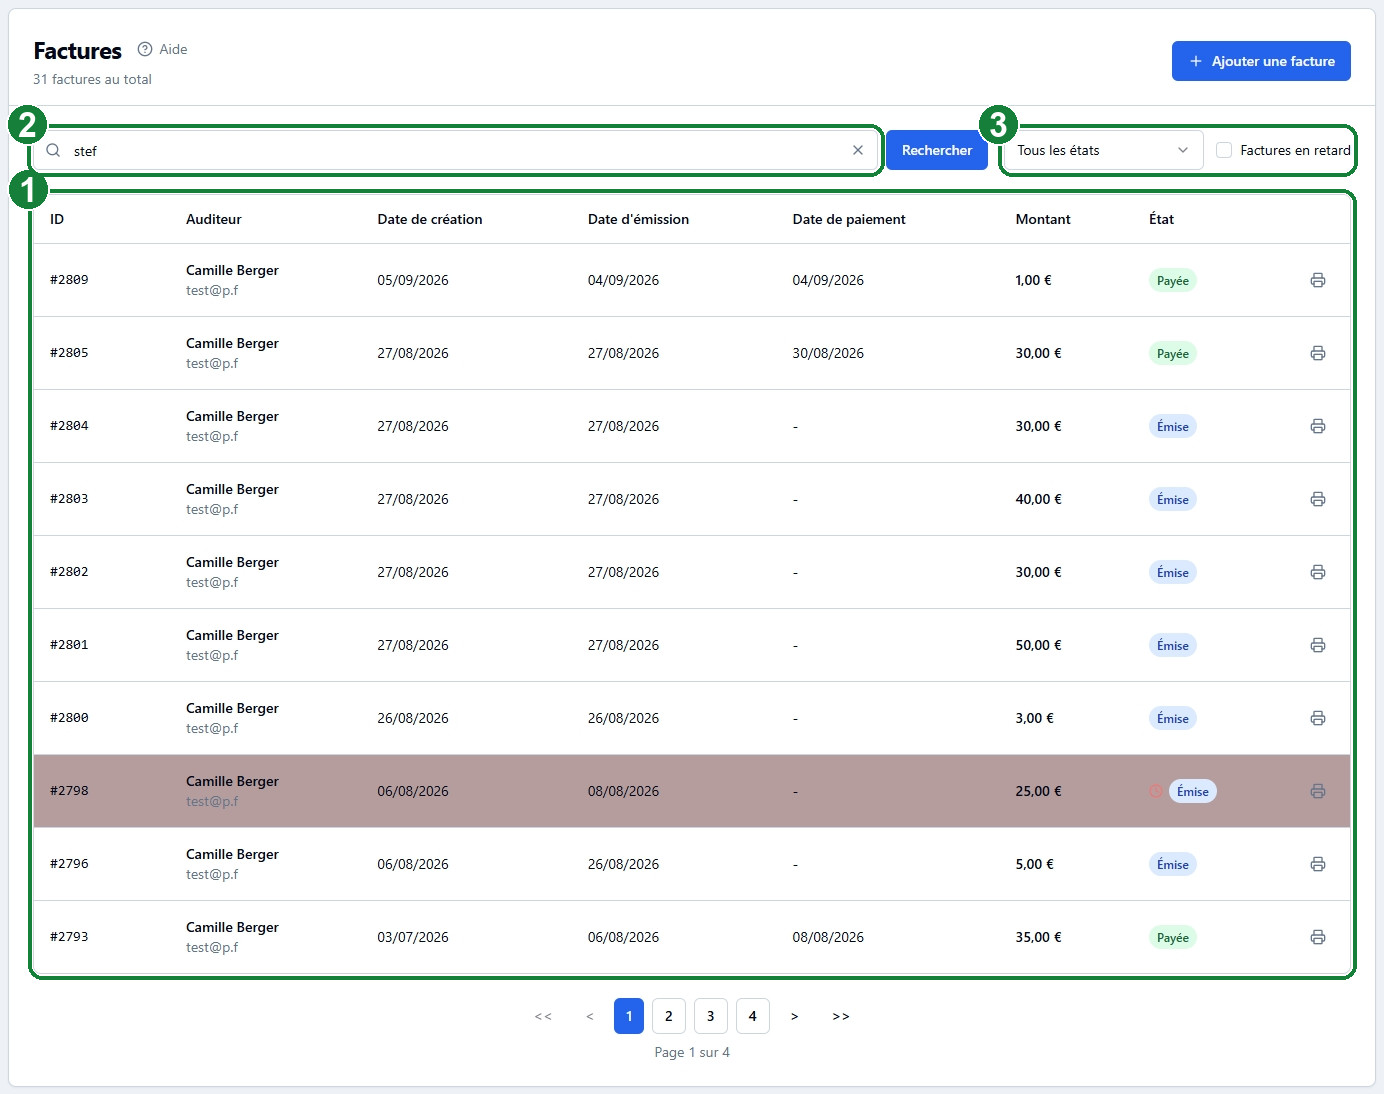
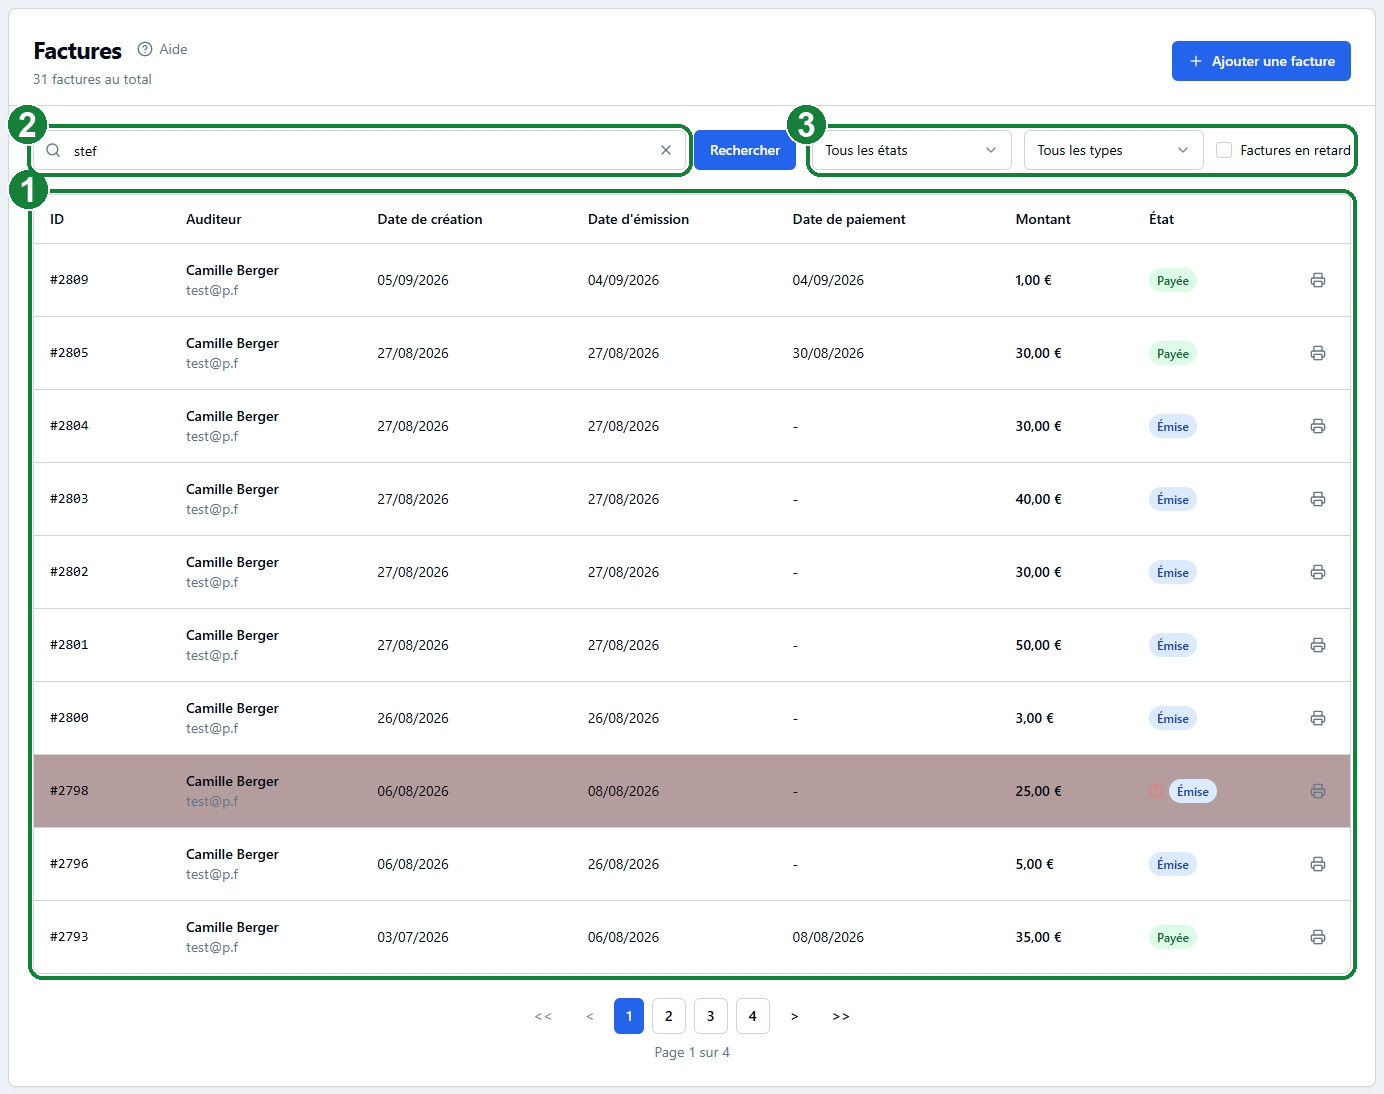
Ajoute un filtre par type (standard / revue) à la liste des factures
Le type se combine avec l'état, le retard et la recherche. Même paramètre
« kind » côté page et côté API. Mode d'emploi et capture factures-01 mis à jour.

Changed region(s): [[0.4971, 0.0932, 0.8078, 0.1865]]

diff --git a/app/admin/bills/bills-table.tsx b/app/admin/bills/bills-table.tsx
@@ -96,6 +96,7 @@ export default function BillsTable({
     const currentPage = initialPage;
     const currentStatus = searchParams.get('status') as BillingStatus | null;
     const showLateOnly = searchParams.get('late') === 'true';
+    const currentKind = searchParams.get('kind');
 
     const updateUrl = (updates: Record<string, string | undefined>) => {
         const params = new URLSearchParams(searchParams.toString());
@@ -144,6 +145,11 @@ export default function BillsTable({
             late: undefined,
             page: '1',
         });
+    };
+
+    // Le type se combine avec l'état et le retard : il ne les remet pas à zéro.
+    const handleKindFilter = (value: string) => {
+        updateUrl({ kind: value === 'all' ? undefined : value, page: '1' });
     };
 
     const handleLateFilter = (checked: boolean) => {
@@ -271,6 +277,17 @@ export default function BillsTable({
                                         {BILLING_STATUS_LABELS[status]}
                                     </SelectItem>
                                 ))}
+                            </SelectContent>
+                        </Select>
+
+                        <Select value={currentKind ?? 'all'} onValueChange={handleKindFilter}>
+                            <SelectTrigger className="w-full sm:w-[180px] bg-card border-border text-foreground">
+                                <SelectValue placeholder="Filtrer par type" />
+                            </SelectTrigger>
+                            <SelectContent className="bg-card border-border">
+                                <SelectItem value="all" className="text-foreground">Tous les types</SelectItem>
+                                <SelectItem value="STANDARD" className="text-foreground">Factures standard</SelectItem>
+                                <SelectItem value="PROFORMA" className="text-foreground">{BILL_KIND_LABELS.PROFORMA}</SelectItem>
                             </SelectContent>
                         </Select>
 

diff --git a/app/admin/bills/page.tsx b/app/admin/bills/page.tsx
@@ -1,5 +1,5 @@
 import { prisma } from '@/lib/prisma';
-import { BillingStatus, Prisma } from '@prisma/client';
+import { BillingStatus, BillKind, Prisma } from '@prisma/client';
 import BillsTable from './bills-table';
 import { buildBillSearchWhere } from '@/lib/search';
 import { billsTableInclude } from '@/types/models/bill.model';
@@ -21,6 +21,7 @@ async function getBills(
     searchTerm: string,
     status?: BillingStatus,
     showLate?: boolean,
+    kind?: BillKind,
 ) {
     const billsPerPage = 10;
 
@@ -46,6 +47,7 @@ async function getBills(
         } else if (status) {
             whereClause.state = status;
         }
+        if (kind) whereClause.kind = kind;
         return whereClause;
     };
     const whereClause = whereFor(searchTerm);
@@ -94,13 +96,18 @@ export default async function AdminBillsPage({ searchParams }: PageProps) {
         ? (rawStatus as BillingStatus)
         : undefined;
 
+    const rawKind = Array.isArray(params.kind) ? params.kind[0] : params.kind;
+    const kind = rawKind && Object.values(BillKind).includes(rawKind as BillKind)
+        ? (rawKind as BillKind)
+        : undefined;
+
     const showLate = (Array.isArray(params.late) ? params.late[0] : params.late) === 'true';
 
     // Only the data fetch is guarded; notFound() throws (returns `never`),
     // so `data` is definitely assigned past this point.
     let data: Awaited<ReturnType<typeof getBills>>;
     try {
-        data = await getBills(page, searchTerm, status, showLate);
+        data = await getBills(page, searchTerm, status, showLate, kind);
     } catch (error) {
         console.error('Error in Admin Bills page:', error);
         notFound();

diff --git a/app/api/bills/route.ts b/app/api/bills/route.ts
@@ -1,7 +1,7 @@
 import { NextResponse } from 'next/server';
 import { revalidateAdmin } from '@/lib/revalidate-admin';
 import { prisma } from '@/lib/prisma';
-import { Prisma, BillingStatus, OrderBillingStatus, PaymentType, PaymentMethod } from '@prisma/client';
+import { Prisma, BillingStatus, BillKind, OrderBillingStatus, PaymentType, PaymentMethod } from '@prisma/client';
 import {
     recomputeBillTotal,
     logBillEvent,
@@ -23,6 +23,7 @@ export const GET = withAdmin(async (request) => {
         const search = searchParams.get('search') || '';
         const rawStatus = searchParams.get('status');
         const late = searchParams.get('late') === 'true';
+        const rawKind = searchParams.get('kind');
         const rawClientId = searchParams.get('clientId');
         const billsPerPage = parseLimitParam(searchParams.get('limit'), 10);
 
@@ -52,6 +53,10 @@ export const GET = withAdmin(async (request) => {
             // Le sélecteur « Facture liée » d'un paiement : un brouillon n'y a pas
             // sa place, les routes de paiement refusent de s'y rattacher.
             whereClause.state = { not: BillingStatus.DRAFT };
+        }
+
+        if (rawKind && Object.values(BillKind).includes(rawKind as BillKind)) {
+            whereClause.kind = rawKind as BillKind;
         }
 
         const [bills, totalBills] = await Promise.all([

diff --git a/content/aide/08-factures.md b/content/aide/08-factures.md
@@ -17,7 +17,7 @@ Une facture porte l'un de ces quatre états :
 - **Payée** — un paiement couvre la facture. Elle passe « Payée » toute seule dès que le paiement est enregistré.
 - **Soldée** — on ne réclame plus rien, sans qu'un paiement ait été reçu.
 
-Sur la page principale des factures, on trouve (1) un tableau présentant les factures existantes, (2) la barre de recherche et (3) quelques filtres que l'on peut appliquer à la recherche et au tableau. Vous pouvez filtrer les résultats par état et/ou par factures en retard. Une facture en retard est une facture « Émise » depuis **plus de 30 jours** et pas encore réglée.
+Sur la page principale des factures, on trouve (1) un tableau présentant les factures existantes, (2) la barre de recherche et (3) quelques filtres que l'on peut appliquer à la recherche et au tableau. Vous pouvez filtrer les résultats par état, par type (« Factures standard » ou « Revue », les factures [pro-forma](#les-factures-pro-forma)) et/ou par factures en retard. Les trois se combinent, sauf « en retard » qui remplace le filtre d'état. Une facture en retard est une facture « Émise » depuis **plus de 30 jours** et pas encore réglée.
 
 L'URL de cette page est https://eca-aveugles.fr/admin/bills
 
